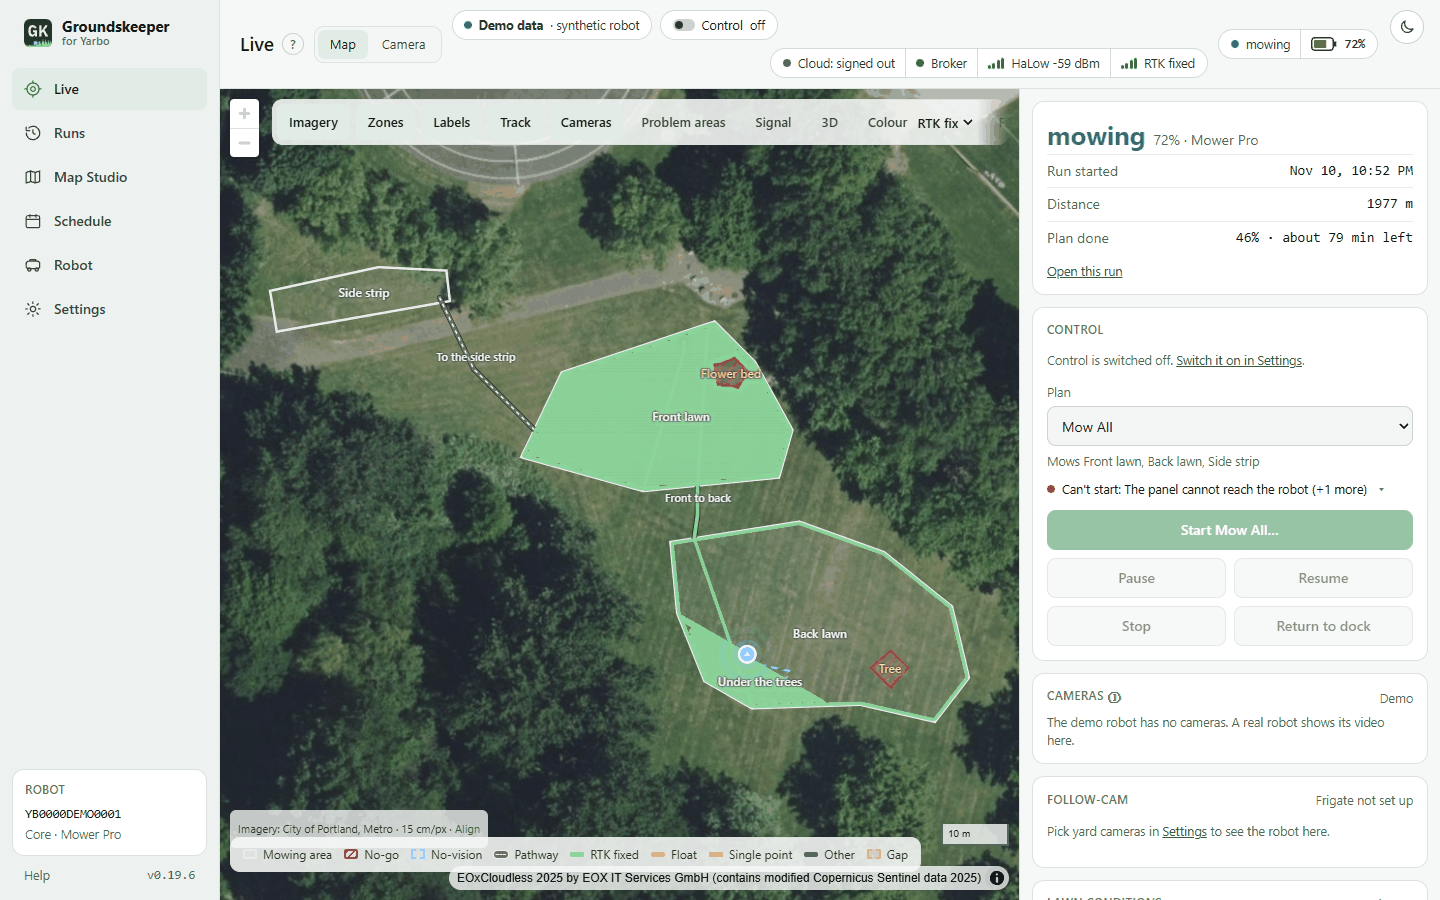
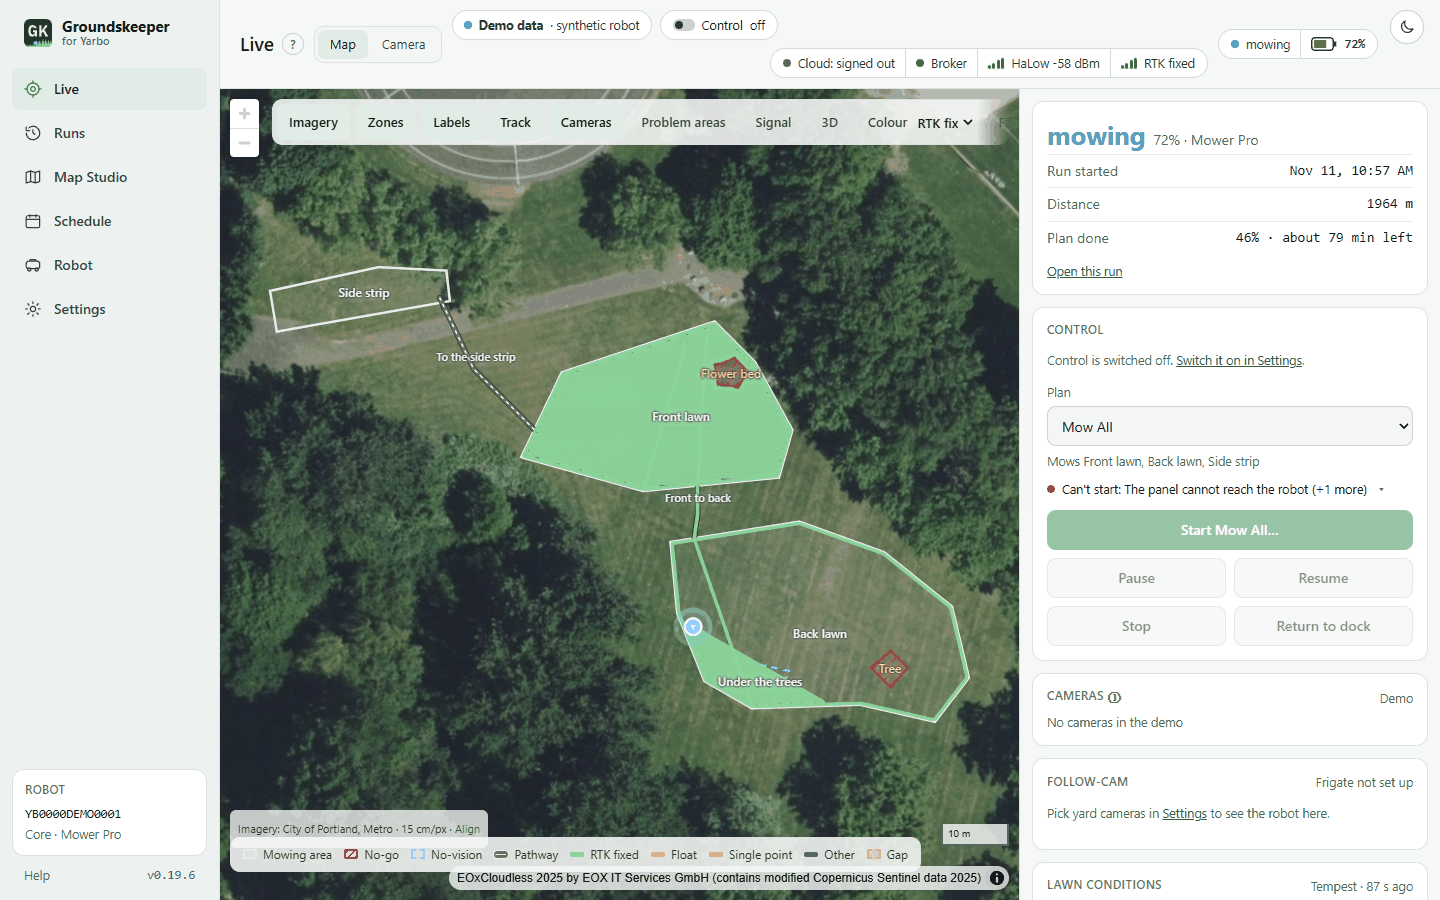
Cameras 4/5: review nits (#103)
- Wrap the added lines over 120 characters (cameras.js, ops.js, style.css, the tests, docs/user).
- Short labels on the tile: the demo line, the Control-off hint and the asleep hints are a few words each; the
  full sentences are their title tooltips and are in docs/user/live.md.
- AGENTS.md: the web/ table row is as it was; cameras.js has a row of its own.
- The network check is noted in the CHANGELOG and docs (no more "pending").
- live.png and live-light.png regenerated with scripts/screenshots.py.

diff --git a/web/cameras.js b/web/cameras.js
@@ -38,8 +38,17 @@ const CAM_SDK_OFF = [
 ];
 
 const cams = { open: false, camera: savedCamera(), phase: "closed", message: "", hint: "", client: null, ticket: 0,
-               slowTimer: null, leaving: Promise.resolve(), settings: null, settingsAt: 0, card: null, stage: null, sdk: null,
-               subscribed: 0 };
+               slowTimer: null, leaving: Promise.resolve(), settings: null, settingsAt: 0, card: null, stage: null,
+               sdk: null, subscribed: 0 };
+
+// The hints on screen are short; what each one means is its tooltip (and docs/user/live.md).
+const CAM_HELP = {
+  "Control is off.": "The panel cannot switch the cameras on while Control is off. They play if the robot " +
+                     "already has them on.",
+  "Asleep, or cameras off.": "The robot may be asleep, or its cameras are off: open the Yarbo app, or switch Control " +
+                             "on to wake them.",
+  "Cameras off, or asleep.": "Its cameras may have switched off, or the robot went to sleep.",
+};
 
 function savedCamera() {
   try {
@@ -54,7 +63,10 @@ function savedCamera() {
 async function camerasAvailable(s) {
   if (s.demo) return true;
   if (!cams.settings || Date.now() - cams.settingsAt > CAM_SETTINGS_MS) {
-    try { cams.settings = await getJSON("/api/settings"); cams.settingsAt = Date.now(); } catch { /* keep the last answer */ }
+    try {
+      cams.settings = await getJSON("/api/settings");
+      cams.settingsAt = Date.now();
+    } catch { /* keep the last answer */ }
   }
   const d = cams.settings;
   return !!(d && d.robot_video_enabled && d.robot_video_configured);
@@ -85,24 +97,31 @@ function camerasDraw() {
   fill(cams.card,
     h("div", { class: "row gap", style: "justify-content:space-between" },
       h("p", { class: "label", style: "margin:0" }, "Cameras ",
-        h("span", { class: "tip", tabindex: "0", title: "The robot's own cameras, not the yard cameras. They come through Yarbo's cloud and Agora's network, one at a time, and only while this is open." }, "ⓘ")),
+        h("span", { class: "tip", tabindex: "0", title: "The robot's own cameras, not the yard cameras. They come " +
+          "through Yarbo's cloud and Agora's network, one at a time, and only while this is open." }, "ⓘ")),
       cams.demo ? h("span", { class: "small muted" }, "Demo")
                 : h("span", { class: "small", style: `color:${colour}` }, dot(colour), " ", label)),
-    cams.demo ? h("p", { class: "muted small", style: "margin:6px 0 0" }, "The demo robot has no cameras. A real robot shows its video here.")
+    cams.demo ? h("p", { class: "muted small", style: "margin:6px 0 0",
+                         title: "The demo robot has no cameras. A real robot shows its video here." },
+                  "No cameras in the demo")
     : cams.open ? [
       h("div", { class: "camchips", role: "group", "aria-label": "Robot camera" },
         CAM_CHOICES.map(([k, name]) => h("button", { type: "button", class: `btn slim${cams.camera === k ? " on" : ""}`,
           "aria-pressed": String(cams.camera === k), title: `The robot's ${name.toLowerCase()} camera`,
           onclick: () => camerasPick(k) }, name)),
-        h("button", { type: "button", class: "btn slim", title: "Stop the video and leave the channel", onclick: () => camerasStop() }, "Close")),
+        h("button", { type: "button", class: "btn slim", title: "Stop the video and leave the channel",
+          onclick: () => camerasStop() }, "Close")),
       cams.stage,
-      cams.message ? h("p", { class: "small", style: `margin:6px 0 0;color:${colour}`, role: "status" }, cams.message) : null,
-      cams.hint ? h("p", { class: "muted small", style: "margin:4px 0 0" }, cams.hint) : null,
-      cams.phase === "error" ? h("button", { type: "button", class: "btn slim", style: "margin-top:6px", onclick: () => camerasStart({ on: true }) }, "Try again") : null]
+      cams.message ? h("p", { class: "small", style: `margin:6px 0 0;color:${colour}`, role: "status" },
+                       cams.message) : null,
+      cams.hint ? h("p", { class: "muted small", style: "margin:4px 0 0", title: CAM_HELP[cams.hint] || null },
+                    cams.hint) : null,
+      cams.phase === "error" ? h("button", { type: "button", class: "btn slim", style: "margin-top:6px",
+                                             onclick: () => camerasStart({ on: true }) }, "Try again") : null]
     : [
       h("div", { class: "row gap", style: "margin-top:6px" },
-        h("button", { type: "button", class: "btn slim", title: "Switch the robot's cameras on and show one here. Needs Control on.",
-          onclick: () => camerasOpen() }, "Open")),
+        h("button", { type: "button", class: "btn slim", onclick: () => camerasOpen(),
+          title: "Switch the robot's cameras on and show one here. Needs Control on." }, "Open")),
       cams.message ? h("p", { class: "muted small", style: "margin:6px 0 0", role: "status" }, cams.message) : null]);
 }
 
@@ -189,7 +208,8 @@ function camerasQuietSdk(AgoraRTC) {
 const camerasBytes = (b64) => Uint8Array.from(atob(b64), (c) => c.charCodeAt(0));
 
 // A short, safe reason for the screen, with the step that failed: our own errors say what they mean; an SDK error is
-// shown by its (string) code only, not a DOMException's legacy number; an error with no message (a DOMException from the browser's crypto, say) by its name.
+// shown by its (string) code only, not a DOMException's legacy number; an error with no message (a DOMException from
+// the browser's crypto, say) by its name.
 // Never the token, key, salt, channel or App ID, and never more than CAM_WHY_MAX characters.
 const CAM_WHY_MAX = 100;
 function camerasWhy(e, step) {
@@ -219,7 +239,9 @@ async function camerasStart({ on }) {
     step = "Loading the video library";
     const AgoraRTC = await camerasLoadSdk();      // only after the panel has given a token
     if (!live()) return;
-    if (AgoraRTC.checkSystemRequirements && !AgoraRTC.checkSystemRequirements()) throw new Error("This browser cannot play the robot's video.");
+    if (AgoraRTC.checkSystemRequirements && !AgoraRTC.checkSystemRequirements()) {
+      throw new Error("This browser cannot play the robot's video.");
+    }
     step = "Setting up";
     camerasQuietSdk(AgoraRTC);
     const client = AgoraRTC.createClient({ mode: "live", codec: "h264" });
@@ -236,7 +258,7 @@ async function camerasStart({ on }) {
       camerasSet("waiting", "Waiting for the robot's video…", hint || "The cameras may be off, or the robot asleep.");
       cams.slowTimer = setTimeout(() => {
         if (live() && cams.phase === "waiting") {
-          camerasSet("waiting", "No video from the robot yet.", "It may be asleep, or its cameras are off: open the Yarbo app, or switch Control on to wake them.");
+          camerasSet("waiting", "No video from the robot yet.", "Asleep, or cameras off.");
         }
       }, CAM_SLOW_MS);
     }
@@ -259,7 +281,7 @@ async function camerasStart({ on }) {
 async function camerasSwitchOn() {
   // The latest status, not the value the last card render saw: Control may have just been switched on in the top bar.
   const controlOn = state.status && state.status.ops ? !!state.status.ops.control_enabled : cams.controlOn;
-  if (!controlOn) return "Control is off, so the panel cannot switch the cameras on. They play if the robot already has them on.";
+  if (!controlOn) return "Control is off.";
   try {
     const r = await postJSON("/api/control/send", { cmd: "smart_vision_control", args: {}, confirm: true });
     if (r && r.sent) return "";
@@ -285,14 +307,16 @@ function camerasListen(client, ticket) {
     if (live() && Number(user.uid) === CAM_ROBOT_UID && mediaType === "video") {   // not the robot's audio stopping
       cams.subscribed = 0;                        // a later user-published subscribes again
       if (cams.stage) cams.stage.replaceChildren();
-      camerasSet("waiting", "The robot stopped sending video.", "Its cameras may have switched off, or it went to sleep.");
+      camerasSet("waiting", "The robot stopped sending video.", "Cameras off, or asleep.");
     }
   });
   // A new token needs a new viewer uid, which only a new request gives, so renewing is a quick rejoin.
   const renew = () => { if (live()) camerasStart({ on: false }); };
   client.on("token-privilege-will-expire", renew);
   client.on("token-privilege-did-expire", renew);
-  client.on("crypt-error", () => { if (live()) { camerasLeave(); camerasSet("error", "Could not decrypt the stream."); } });
+  client.on("crypt-error", () => {
+    if (live()) { camerasLeave(); camerasSet("error", "Could not decrypt the stream."); }
+  });
   client.on("connection-state-change", (cur, _prev, reason) => {
     if (live() && cur === "DISCONNECTED" && reason !== "LEAVE") {
       camerasLeave();
@@ -313,7 +337,12 @@ async function camerasPlay(client, user, mediaType, ticket) {
 }
 
 // Video only while it can be seen: leave when the tab is hidden, when Live is left and when the page closes.
-document.addEventListener("visibilitychange", () => { if (document.hidden && cams.open) camerasStop("Stopped while the tab was hidden."); });
+document.addEventListener("visibilitychange", () => {
+  if (document.hidden && cams.open) camerasStop("Stopped while the tab was hidden.");
+});
 window.addEventListener("pagehide", () => { if (cams.open) camerasStop(); });
-// After the shell's own hashchange handler has set state.view (a timer, not a microtask: which listener runs first is not fixed).
-window.addEventListener("hashchange", () => setTimeout(() => { if (cams.open && state.view !== "live") camerasStop(); }, 0));
+// After the shell's own hashchange handler has set state.view (a timer, not a microtask: which listener runs first
+// is not fixed).
+window.addEventListener("hashchange", () => {
+  setTimeout(() => { if (cams.open && state.view !== "live") camerasStop(); }, 0);
+});

diff --git a/web/ops.js b/web/ops.js
@@ -122,7 +122,8 @@ async function liveExtras(s) {
   // Live can render before the map's plan list arrives; an empty picker would send plan_id 0.
   if (!state.plansCache.length) { try { state.plansCache = (await getJSON("/api/plans")).plans || []; } catch { /* none yet */ } }
   const [fc, robotCams] = await Promise.all([followCamData(), camerasCard(s)]);   // cameras.js: the robot's own cameras
-  const rest = [whyCard(o.why), o.pending ? pendingCard(o.pending, o.control_enabled) : null, controlCard(s), robotCams];
+  const rest = [whyCard(o.why), o.pending ? pendingCard(o.pending, o.control_enabled) : null, controlCard(s),
+                robotCams];
   if (ops.mode === "camera") {
     const away = !fc.pinned && (!fc.cam || fc.covered === false);
     if (away !== ops.camAway) { ops.camAway = away; syncLiveMode(); }

diff --git a/web/style.css b/web/style.css
@@ -281,7 +281,9 @@ a { color: var(--link); }
 .camchips { display: flex; flex-wrap: wrap; gap: 6px; }
 /* Live's Cameras tile: the robot's own cameras. The stage keeps a 16:9 box whatever the video does. */
 .camscard .camchips { margin-top: 8px; }
-.camsstage { margin-top: 8px; aspect-ratio: 16 / 9; width: 100%; border-radius: 8px; overflow: hidden; background: var(--map-ink); }
+.camsstage {
+  margin-top: 8px; aspect-ratio: 16 / 9; width: 100%; border-radius: 8px; overflow: hidden; background: var(--map-ink);
+}
 .camsstage video { object-fit: contain; }
 .btn.on { background: var(--pressed); border-color: var(--line3); }
 .btn[disabled] { opacity: .5; cursor: not-allowed; }

diff --git a/tests/test_cameras_js.py b/tests/test_cameras_js.py
@@ -16,7 +16,8 @@ needs_node = pytest.mark.skipif(not shutil.which("node"), reason="node is not in
 
 
 def run_flow() -> list:
-    out = subprocess.run([shutil.which("node"), str(ROOT / "tests" / "cameras_flow.cjs"), str(ROOT / "web" / "cameras.js")],
+    flow, page = ROOT / "tests" / "cameras_flow.cjs", ROOT / "web" / "cameras.js"
+    out = subprocess.run([shutil.which("node"), str(flow), str(page)],
                          capture_output=True, encoding="utf-8", timeout=60, check=True).stdout
     return json.loads(out)
 
@@ -120,7 +121,7 @@ def test_a_failed_join_says_which_step_failed_and_why_without_secrets():
     seg = segment(calls, "join-sdk-code")                               # an SDK error shows its code, never its message
     assert ["phase", "error", "Joining failed: INVALID_OPERATION"] in seg
     assert "007tok" not in json.dumps([c for c in seg if c[0] == "phase"])
-    seg = segment(calls, "join-abort-error")                            # a numeric DOMException code is not an Agora code
+    seg = segment(calls, "join-abort-error")                  # a numeric DOMException code is not an Agora code
     assert ["phase", "error", "Joining failed: AbortError"] in seg
     long = next(c for c in segment(calls, "join-long") if c[0] == "phase")
     assert long[2].startswith("Joining failed: xxx") and len(long[2]) <= 100
@@ -171,7 +172,8 @@ def test_only_the_robots_video_is_played():
 def test_the_robot_stopping_its_video_goes_back_to_waiting_and_a_republish_plays_again():
     calls = run_flow()
     phases = [c[1:] for c in segment(calls, "unpublished") if c[0] == "phase"]
-    assert phases == [["playing", ""], ["playing", ""], ["playing", ""], ["waiting", "The robot stopped sending video."]]
+    assert phases == [["playing", ""], ["playing", ""], ["playing", ""],
+                      ["waiting", "The robot stopped sending video."]]
     again = segment(calls, "republished")
     assert ["subscribe", 1, "video"] in again and ["phase", "playing", ""] in again
 
@@ -224,7 +226,8 @@ def test_closing_while_waiting_on_a_leave_a_token_or_the_script_goes_no_further(
 @needs_node
 def test_a_lost_connection_leaves_and_says_so_but_our_own_leave_is_not_an_error():
     calls = run_flow()
-    assert [c[1:] for c in segment(calls, "own-leave") if c[0] == "phase"] == [["waiting", "Waiting for the robot's video…"]]
+    own = [c[1:] for c in segment(calls, "own-leave") if c[0] == "phase"]
+    assert own == [["waiting", "Waiting for the robot's video…"]]
     lost = segment(calls, "connection-lost")
     assert "leave" in [c[0] for c in lost] and ["phase", "error", "The connection was lost."] in lost
 

diff --git a/docs/user/live.md b/docs/user/live.md
@@ -56,17 +56,22 @@ are pink, edge passes violet.
   came late. A good link there points at the sky view instead: trees, walls, the house.
 - **Cameras:** the robot's own cameras (front, left, right, back), not the yard cameras of the follow-cam. The tile
   is there only when [Settings → Robot → Robot video](#help/settings) is on and the video service is set. **Open**
-  switches the robot's cameras on (needs Control on; with Control off it says so and plays only if the cameras are
-  already on, for example from the Yarbo app) and shows one camera at a time: pick Front, Left, Right or Back. The
-  state beside the title is *Connecting*, *Waiting for the robot* (cameras off or the robot asleep), *Live* or an
-  error with **Try again**. An error says which step failed and a short reason, such as "Joining failed: OperationError". The video comes from Agora's network to your browser and plays only while the tile is
-  open: **Close**, another page, a hidden tab or a closed page stop it. The panel never switches the cameras off,
-  because that would cut the Yarbo app's view too; the robot does that itself. The panel asks Agora's SDK not to send
-  usage statistics or upload logs, and switches off its remote configuration (which could turn those back on); a
-  network capture to confirm this is pending. Agora's servers see the panel's address (the `Origin` and
-  `Referer` of the SDK's requests) and your browser's address. The SDK also keeps a few items of its own in this
-  browser's storage; the panel clears them when the SDK has loaded and when the tile leaves the channel. The demo shows
-  a placeholder.
+  switches the robot's cameras on (needs Control on) and shows one camera at a time: pick Front, Left, Right or
+  Back. The state beside the title is *Connecting*, *Waiting for the robot*, *Live* or an error with **Try again**.
+  An error says which step failed and a short reason, such as "Joining failed: OperationError".
+  - **Control is off** (hover the note for this): the panel cannot switch the cameras on, so it plays only if they
+    are already on, for example from the Yarbo app.
+  - **Asleep, or cameras off** (and **Cameras off, or asleep** when the video stops): the robot may be asleep or its
+    cameras off. Open the Yarbo app, or switch Control on to wake them.
+  - The video comes from Agora's network to your browser and plays only while the tile is open: **Close**, another
+    page, a hidden tab or a closed page stop it. The panel never switches the cameras off, because that would cut the
+    Yarbo app's view too; the robot does that itself.
+  - The panel asks Agora's SDK not to send usage statistics or upload logs, and switches off its remote
+    configuration (which could turn those back on). A network check while video played saw the browser talk only
+    to Agora's gateway, edge and media servers. Agora's servers see the panel's address (the `Origin` and
+    `Referer` of the SDK's requests) and your browser's address. The SDK also keeps a few items of its own in this
+    browser's storage; the panel clears them when the SDK has loaded and when the tile leaves the channel.
+  - The demo shows a placeholder: "No cameras in the demo".
 - **Control card:** pick a plan and see its areas. Only the buttons that make sense in the robot's state are on.
   Needs control switched on ([Safety](#help/safety)). Hover a button that is off to see why; on a phone or a narrow
   window a line under the buttons says it instead.

diff --git a/CHANGELOG.md b/CHANGELOG.md
@@ -10,10 +10,10 @@ robot card. Before 0.9.0 the panel had no version numbers; those changes are lis
 - **A Cameras tile on Live** shows the robot's own cameras (front, left, right, back), one at a time, while the tile
   is open. It switches the cameras on (Control on, never off), plays the stream with Agora's SDK from this panel
   (the panel asks the SDK not to send usage statistics or upload logs, and switches off its remote configuration; a
-  network capture to confirm this is pending; Agora's servers see the panel's address) and leaves the channel
-  when closed, on another page or a hidden tab. Shown
-  only with Robot video on and the service address set; the demo shows a placeholder. An error says which step
-  failed and a short reason, never the token, key, channel or App ID.
+  network check saw only Agora's gateway, edge and media servers; Agora's servers see the panel's address) and
+  leaves the channel when closed, on another page or a hidden tab. Shown only with Robot video on and the service
+  address set; the demo shows a placeholder. An error says which step failed and a short reason, never the token,
+  key, channel or App ID.
 - **Robot video setting** (Settings → Robot, off by default): lets a signed-in person ask for a robot
   camera's join details (`POST /api/video/token`); the viewer's browser then connects to Agora. People only: API tokens
   and AI assistants are refused, and the stream key is never logged. Needs `YARBO_ROBOT_SERVICE_URL` (environment

diff --git a/AGENTS.md b/AGENTS.md
@@ -73,7 +73,8 @@ These come on top of the rules below, which apply to everyone.
 | `app/mcp_server.py` | MCP server for AI assistants (`ROUTES` allowlist, scrubbed output) |
 | `app/imagery/`, `catalog/` | Aerial imagery: protocols, catalog data (one JSON file per source) |
 | `app/demo.py`, `app/demo_robot.py` | Demo mode: synthetic history and a simulated robot |
-| `web/` | Plain JS, no build step: `app.js` (shell, Live, Runs), `studio.js`, `settings.js`, `ops.js`, `cameras.js` (the robot cameras tile), `imagery.js`, `help.js`, `robot3d.js` |
+| `web/` | Plain JS, no build step: `app.js` (shell, Live, Runs), `studio.js`, `settings.js`, `ops.js`, `imagery.js`, `help.js`, `robot3d.js` |
+| `web/cameras.js` | Live's Cameras tile: the robot's own cameras |
 | `docs/user/` | In-app Help pages (served by the panel) |
 | `docs/dev/` | Design (`design.md`, cited from code as §N), protocol, map writes, robot states, UI rules |
 | `tests/` | pytest; fakes for the robot, HTTP and stores; all synthetic. `tests/test_guards.py` checks the rules below |

diff --git a/docs/user/settings.md b/docs/user/settings.md
@@ -131,6 +131,6 @@ with `https://`), never in Settings, because the panel sends your Yarbo session 
 "configured" or "not configured", and until it is set the panel answers "not configured". With `PANEL_AUTH=off`
 anyone who can reach the panel gets the video too. The video plays in the **Cameras** tile on [Live](#help/live).
 The panel asks the SDK not to send Agora usage statistics or upload logs, and switches off its remote configuration;
-a network capture to confirm this is pending. Agora still sees your browser's address, the panel's address
-(the `Origin` and `Referer` of the SDK's requests) and the camera's channel name, which carries the robot's serial
-number.
+a network check while video played saw only Agora's gateway, edge and media servers. Agora still sees your
+browser's address, the panel's address (the `Origin` and `Referer` of the SDK's requests) and the camera's
+channel name, which carries the robot's serial number.
